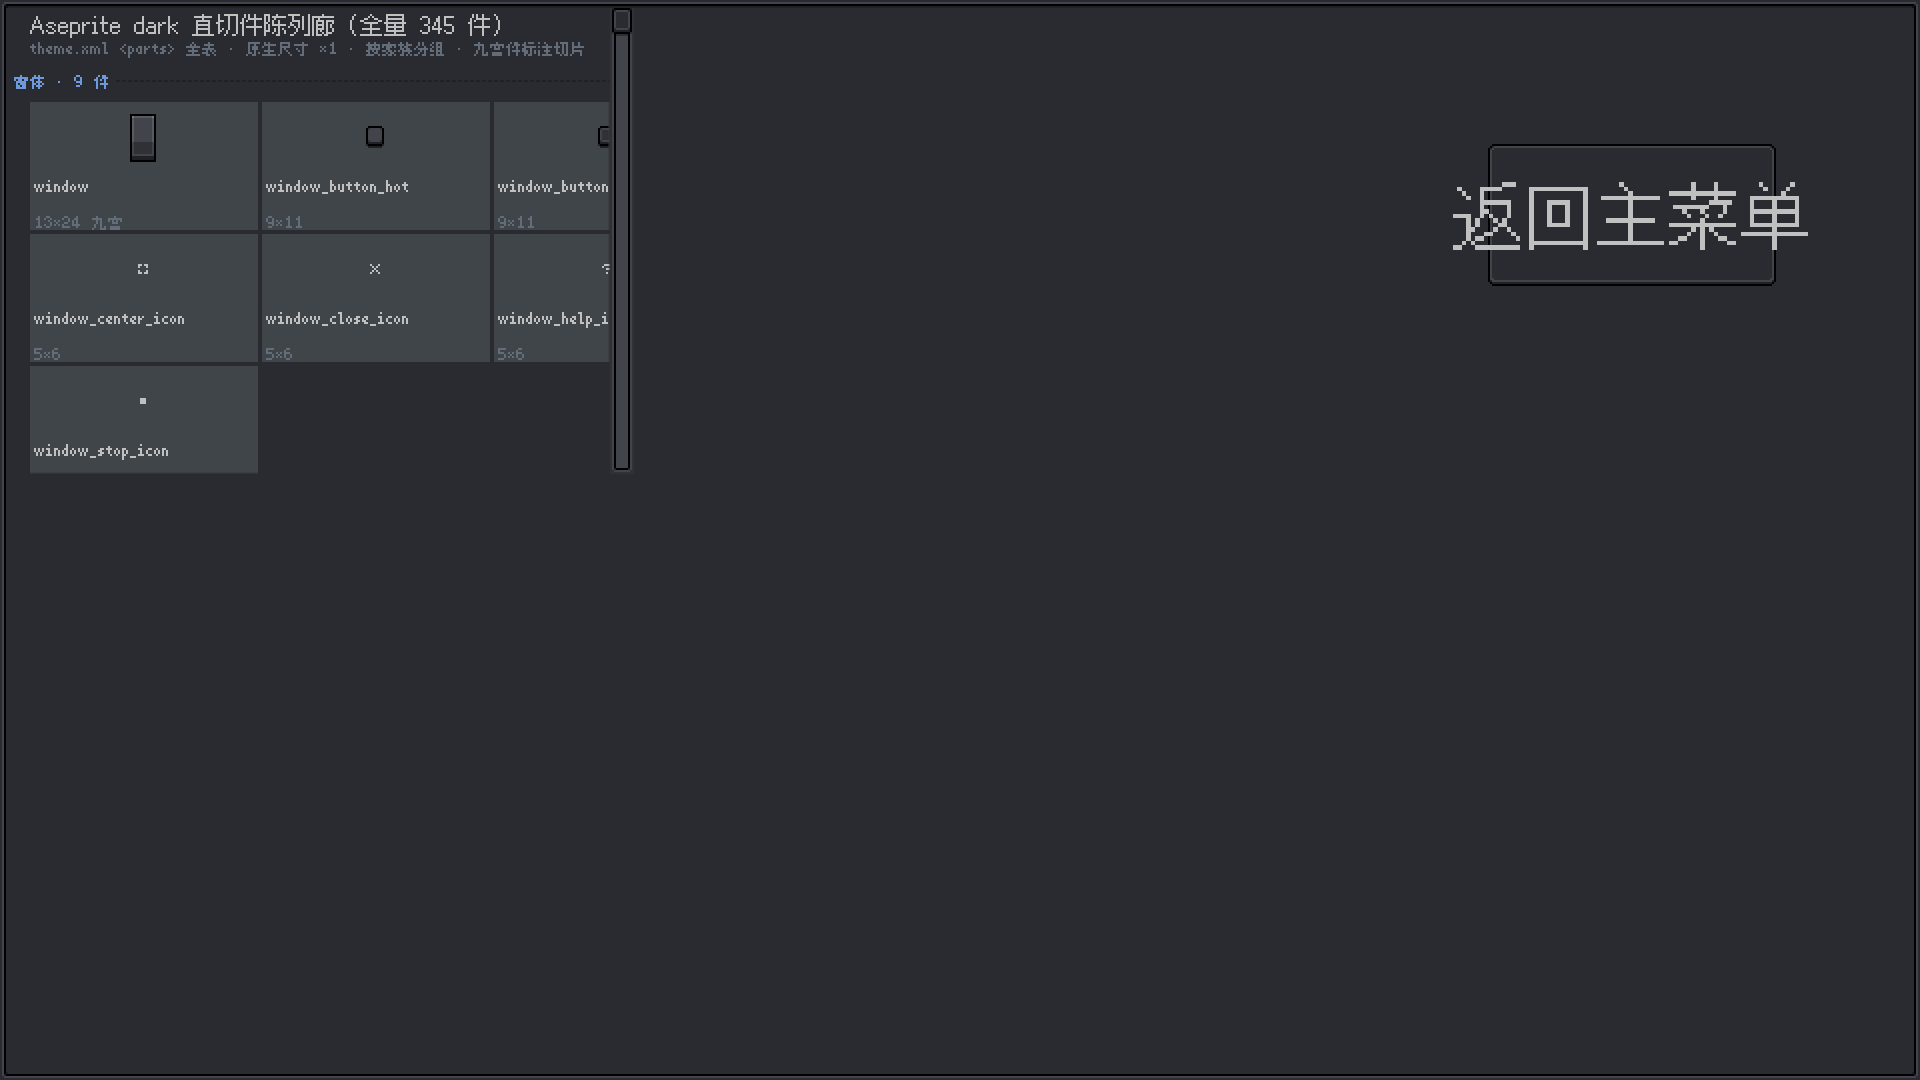
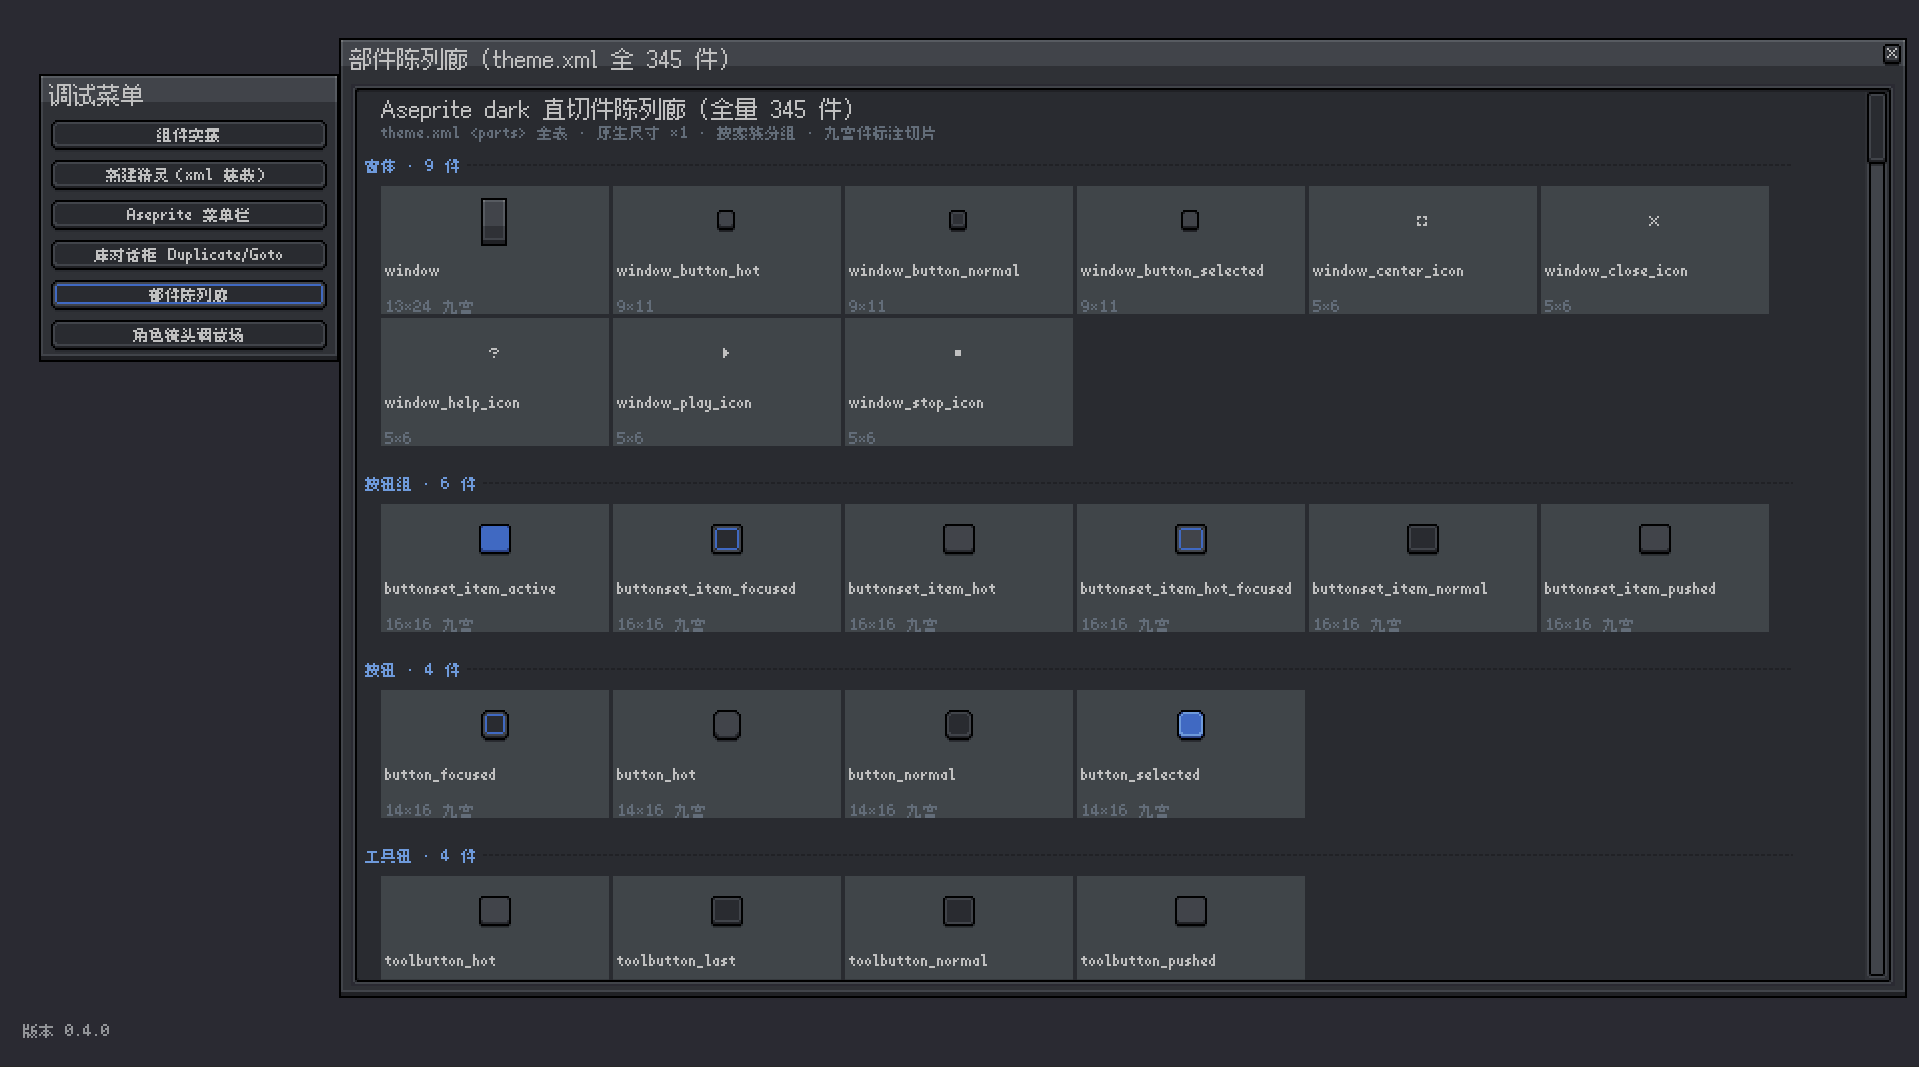
docs(readme): 主菜单/组件陈列廊换创始人实机截图（含可拖动调试菜单全窗组，菜单接线修复实机验证）

diff --git a/README.md b/README.md
@@ -69,9 +69,9 @@ Blender 无头管线手作建模的工业废墟两连关：精馏塔、管廊、
 
 ![战斗 HUD](docs/images/readme/hud-detail.png)
 
-*主菜单实拍（进入战斗 / 船员管理 / 设置 / 调试场景 / 退出游戏）：*
+*主菜单实拍（含可拖动调试菜单：组件实摆 / 新建精灵 / Aseprite 菜单栏 / 部件陈列廊 / 角色镜头调试场）：*
 
-![主菜单](docs/images/readme/ui-menu.png)
+![主菜单与调试菜单](docs/images/readme/ui-menu.png)
 
 *UI 组件陈列廊实机窗口（theme.xml 全量 345 件直切件，原生尺寸陈列 + 九宫切片标注）：*
 
